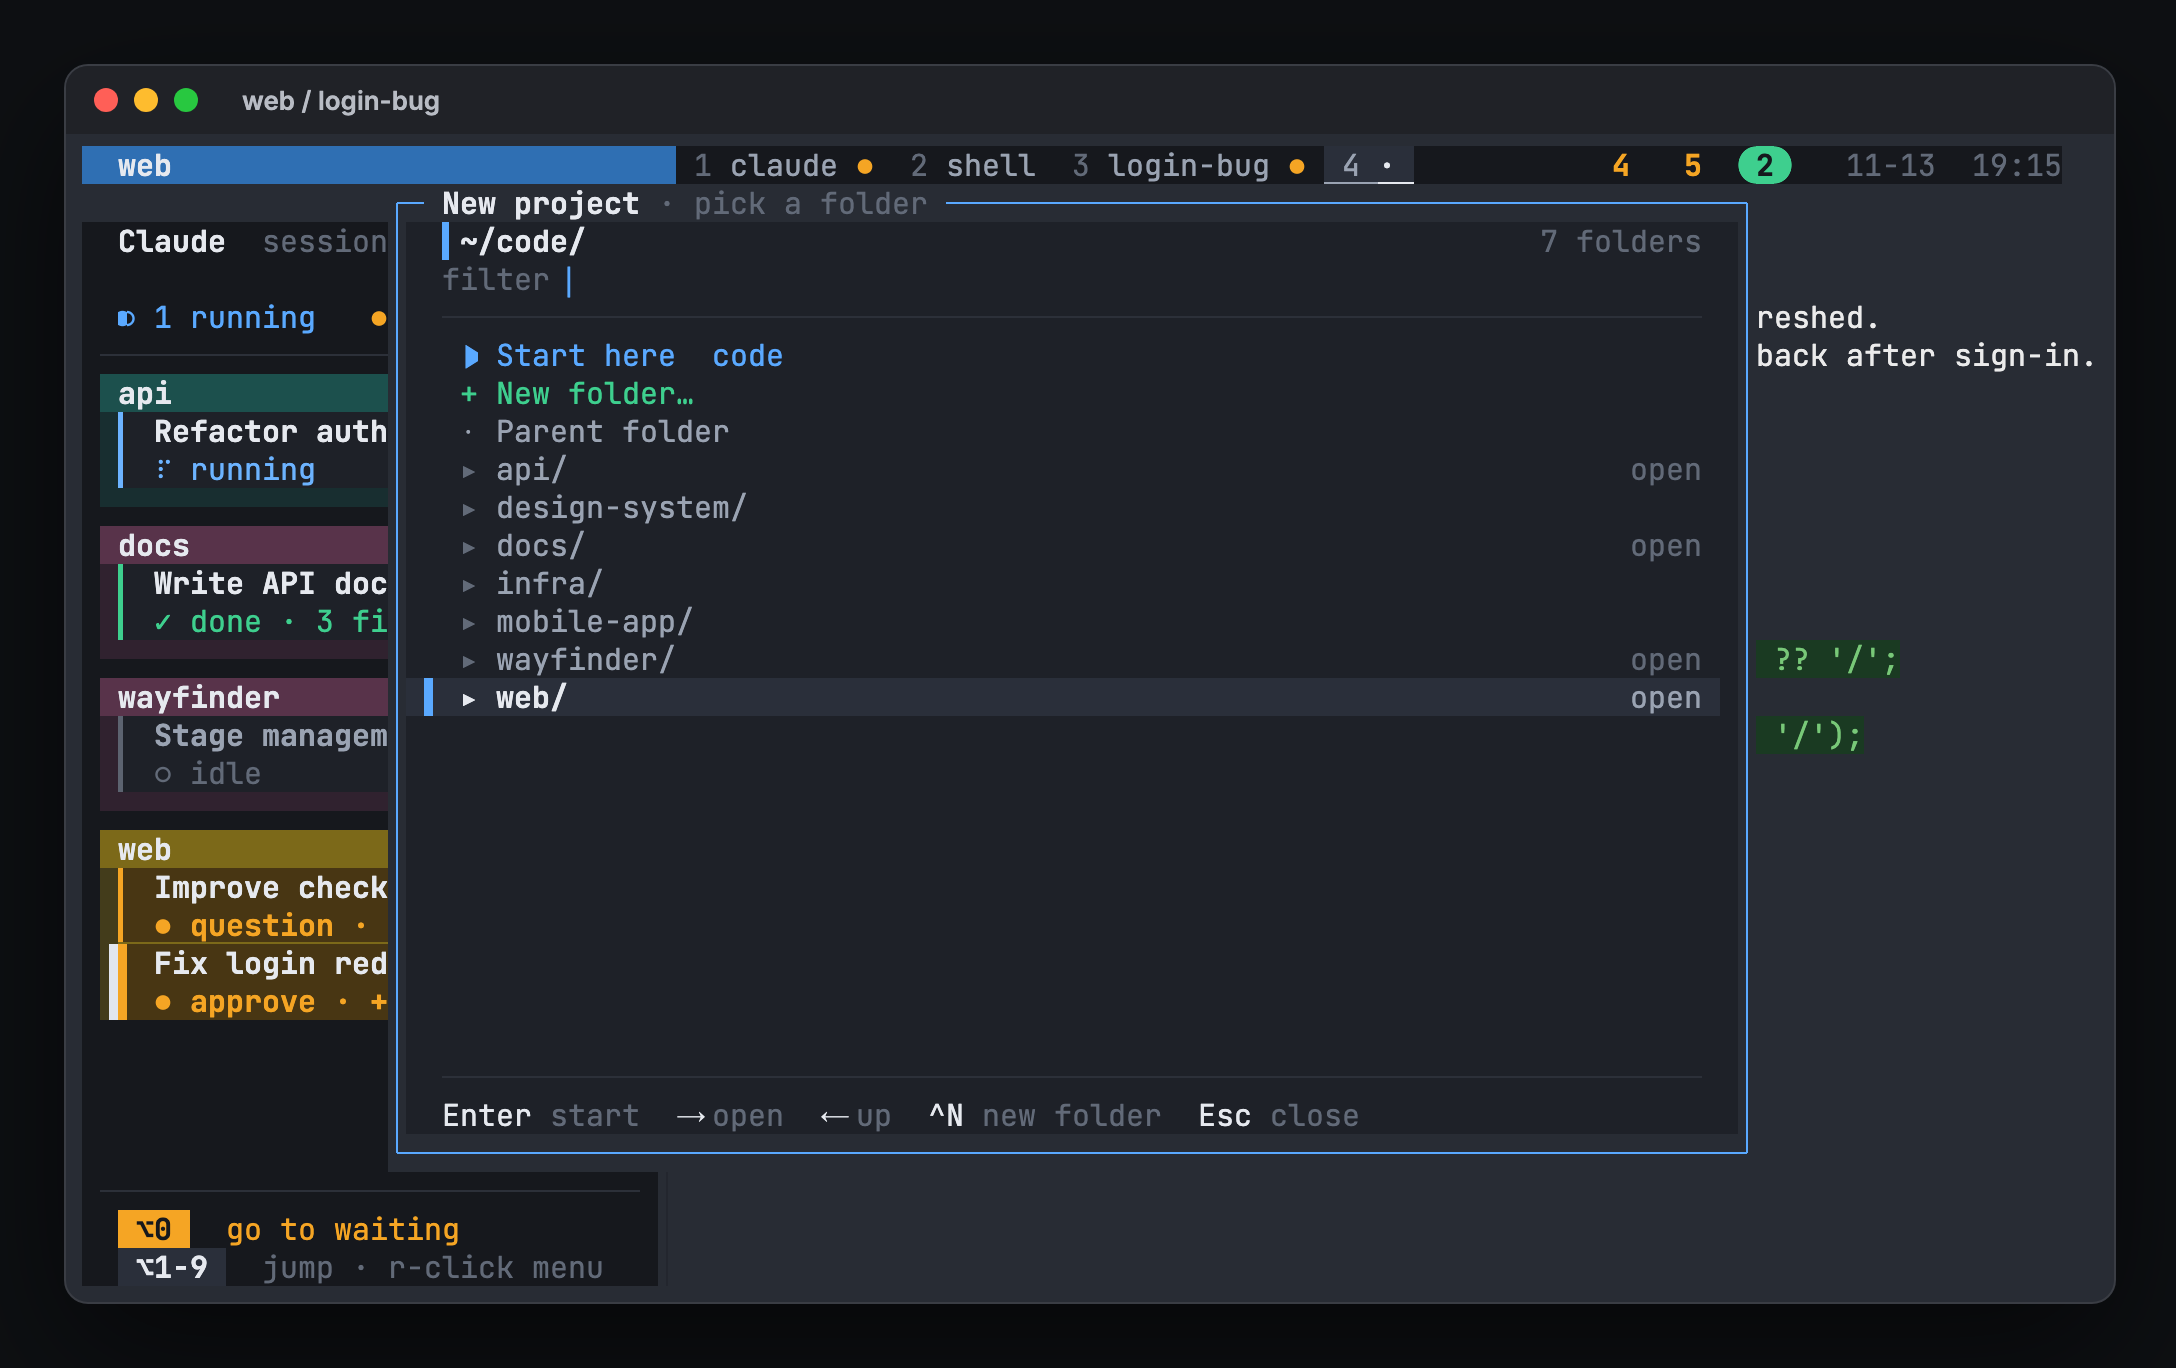
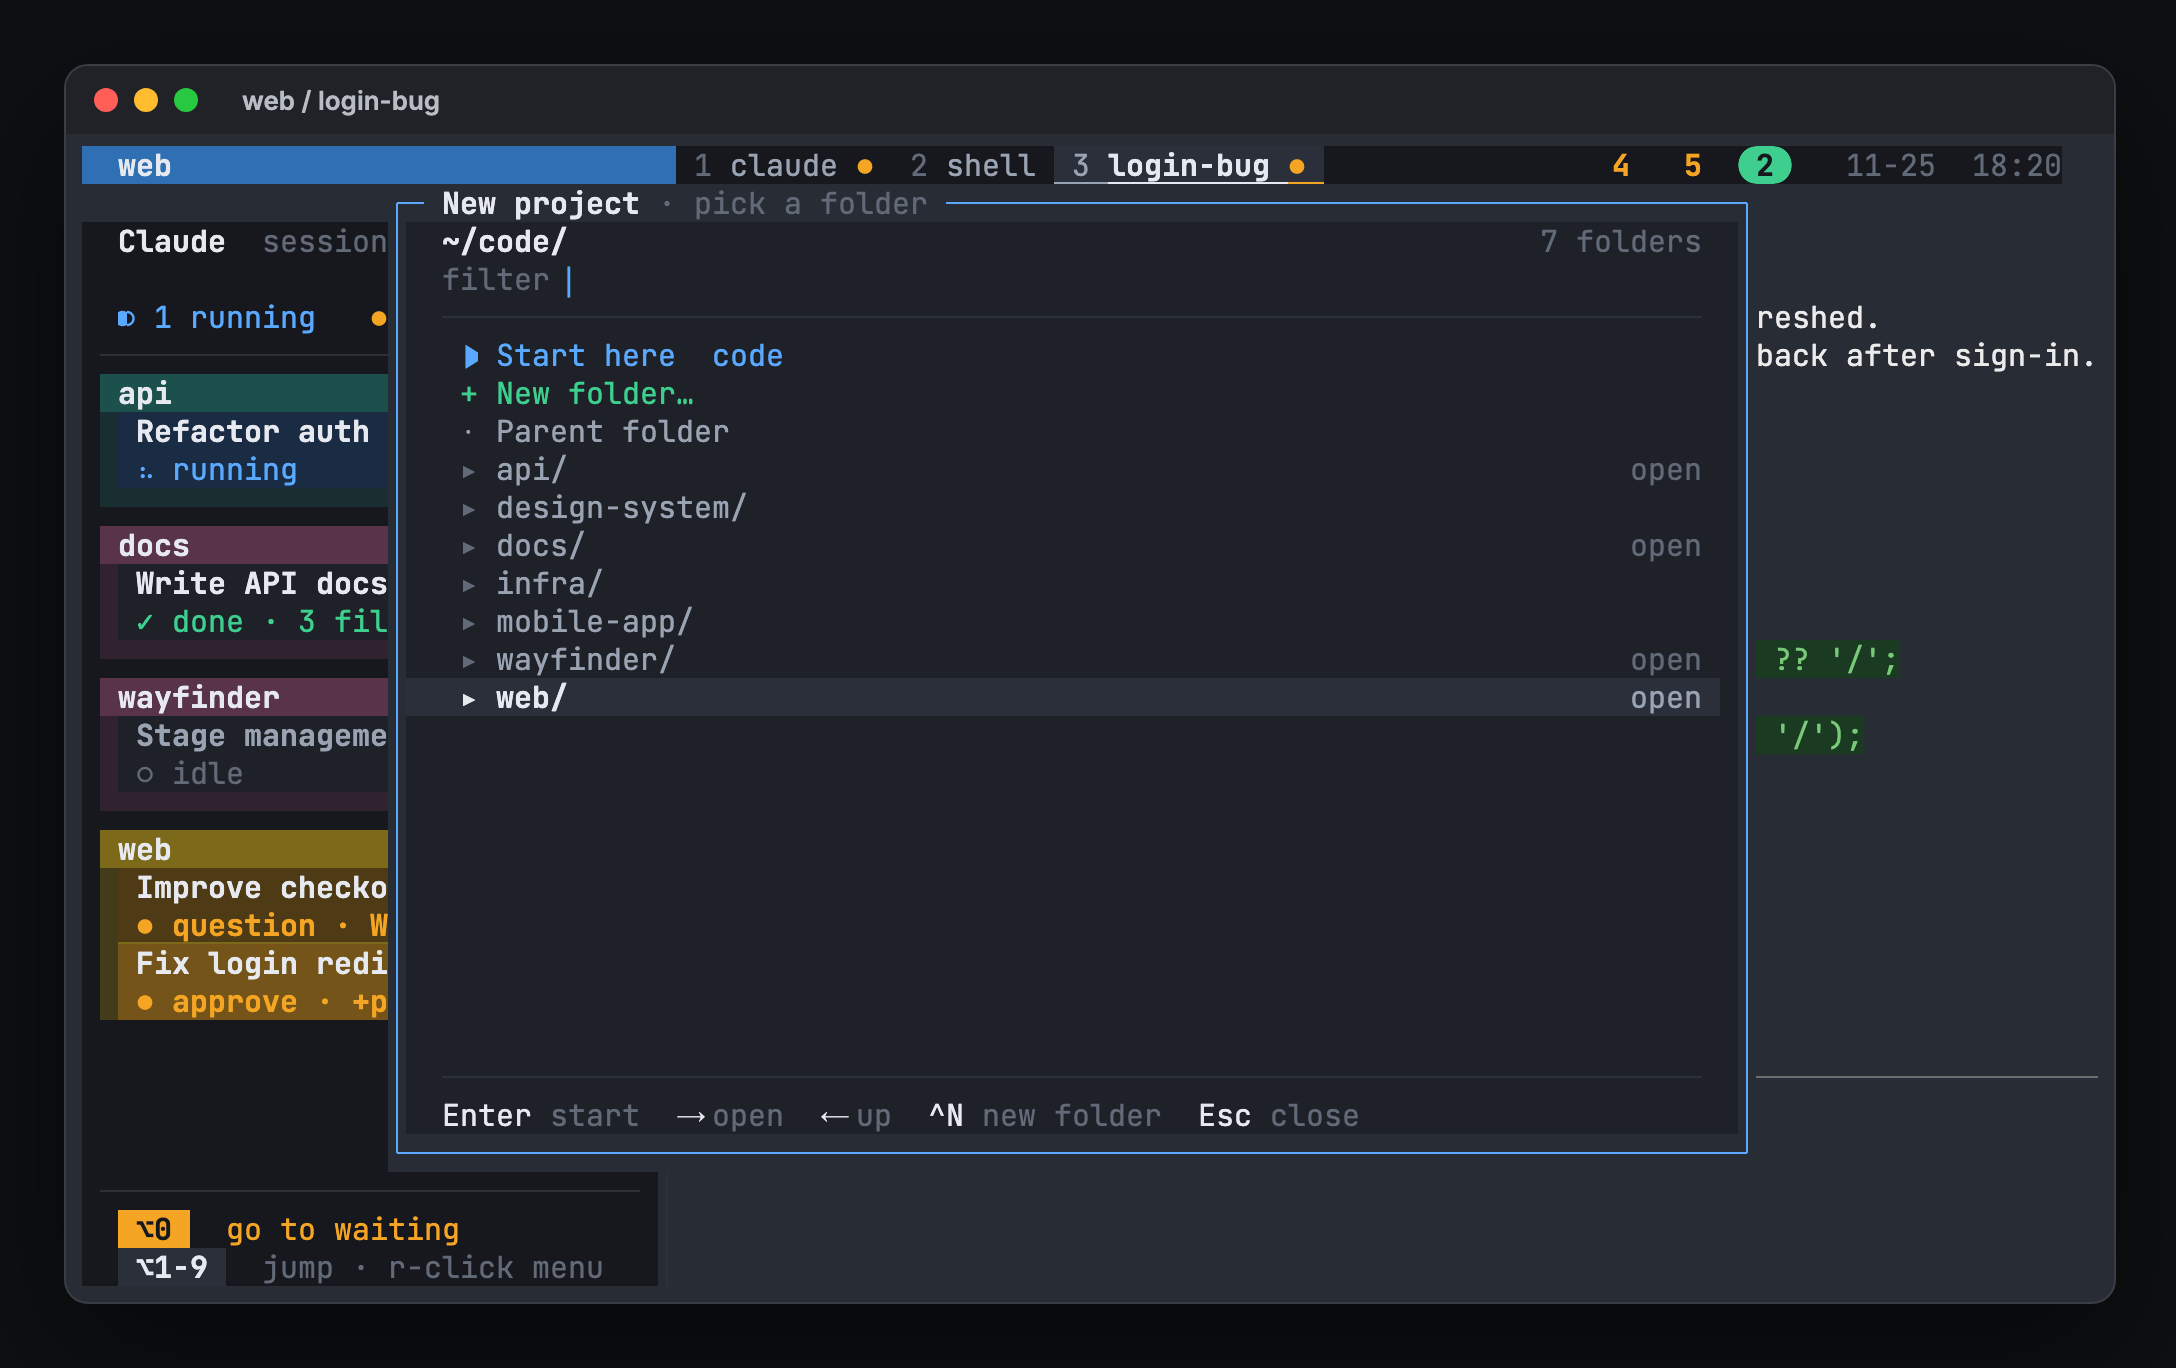
Docs: what is new, API credits at the usage limit, new pictures; popups without a left bar; the SDK status line as plain text
Claude-Session: https://claude.ai/code/session_01PQGNXR7xQauyYbhpc3gRFo

diff --git a/docs/guide.en.html b/docs/guide.en.html
@@ -704,6 +704,7 @@ hivemux connect me@work-mac.local</pre></div>
     <div class="card"><h3>Add one</h3><p>Right-click the sidebar → <b>Switch account…</b> → <b>Add account…</b>, give it a name and log in in the browser once.</p></div>
     <div class="card"><h3>Switch</h3><p>Pick it in the same popup. It first says how many Claudes, in which projects, will restart, and asks. They restart on the new account in the same conversation: at once when at rest or stopped by the limit, after the turn when working.</p></div>
     <div class="card"><h3>One project</h3><p>Right-click a project's name → <b>Account for this project…</b> gives that project its own account; "Same as all projects" undoes it.</p></div>
+    <div class="card"><h3>At the limit, go on with an API key</h3><p>In the same popup, <b>Add API key account…</b> adds an Anthropic API key and <b>At a usage limit, go on with</b> picks it (the first one added is picked). When a subscription hits its usage limit, its Claudes go on with the key in the same pane, and the one the limit cut off is asked to go on. So do those of a subscription that cannot be used (a payment past due), for a day or until you choose that account again. When the limit resets they come back once off the screen and not working. API use is billed per request. The same row in <b>Account for this project…</b> sets one project. It goes on through the <b>Agent SDK</b> by default: the <a href="https://support.claude.com/en/articles/17154008-monthly-api-credits-for-max-ultra-and-team-plans">monthly API credits</a> of the Max, Ultra and Team plans cover the Agent SDK and not Claude Code. hivemux's own terminal for Claude, made with the SDK, works in the same pane with the same folder, tools and settings; the conversation passes as documents, and Claude Code reads what was done when the subscription is back.</p></div>
     <div class="card"><h3>Where you are</h3><p>The status line shows <code>◉ work</code> when the account in use is not the default one.</p></div>
     <div class="card"><h3>What is shared</h3><p>An added account is its own Claude config folder (<code>~/.local/share/hivemux/accounts/&lt;name&gt;</code>, <code>CLAUDE_CONFIG_DIR</code>): only the login is its own. Settings, hooks, conversations, memory, skills, plugins and the running sessions are shared with <code>~/.claude</code>.</p></div>
     <div class="card"><h3>Pages</h3><p>Right-click → <b>Pages…</b> lists the projects' HTML files and the artifacts your Claudes published. With Settings → <b>Pages to show</b> on <b>HTML files</b>, pages are made as files and published as artifacts only when you want one shared; <b>Copy request for opinions</b> brings what was said on the shared copy back to the file. An artifact opens only for the account that published it. <b>View copy</b> opens the copy kept here; <b>Copy republish request</b> asks a Claude on the account in use to publish it again.</p></div>
@@ -711,6 +712,9 @@ hivemux connect me@work-mac.local</pre></div>
   <div class="code"><button class="copy" type="button">Copy</button><pre>hivemux account add work        <span class="cmt"># log in once (browser)</span>
 hivemux account use work        <span class="cmt"># every project</span>
 hivemux account use work -s api <span class="cmt"># one project (all: as every project)</span>
+hivemux account add-key api     <span class="cmt"># an API key account (asks for the key)</span>
+hivemux account fallback api    <span class="cmt"># go on with it at a usage limit (off: stop)</span>
+hivemux account fallback api -s web <span class="cmt"># one project (off, all: as every project)</span>
 hivemux account list            <span class="cmt"># accounts, emails, projects</span></pre></div>
 </section>
 

diff --git a/docs/preview/fake-sdk/claude_agent_sdk.py b/docs/preview/fake-sdk/claude_agent_sdk.py
@@ -1,0 +1,93 @@
+"""A stand-in for claude-agent-sdk that answers from a script, for the docs' pictures (no API call, no key).
+문서 그림용으로 각본대로 답하는 claude-agent-sdk 대역 (API 호출도 키도 없음)."""
+import asyncio, os
+from dataclasses import dataclass, field
+from typing import Any
+
+
+@dataclass
+class TextBlock:
+    text: str
+
+
+@dataclass
+class ToolUseBlock:
+    name: str
+    input: dict
+    id: str = "t"
+
+
+@dataclass
+class ToolResultBlock:
+    content: Any
+    is_error: bool = False
+
+
+@dataclass
+class AssistantMessage:
+    content: list
+    usage: dict = field(default_factory=lambda: {"input_tokens": 61000})
+    parent_tool_use_id: Any = None
+
+
+@dataclass
+class UserMessage:
+    content: list
+
+
+@dataclass
+class ResultMessage:
+    total_cost_usd: float
+    session_id: str = "demo"
+
+
+class ClaudeAgentOptions:
+    def __init__(self, **kw):
+        self.kw = kw
+
+
+KO = os.environ.get("HIVEMUX_LANG") == "ko"
+S = (lambda ko, en: ko) if KO else (lambda ko, en: en)
+F = "src/lib/auth/session.ts"
+SCRIPT = [
+    [AssistantMessage([TextBlock(S("한도로 끊긴 곳부터 이어 갑니다. 세션 갱신을 auth 모듈로 옮기던 중이었고, 남은 일은 테스트입니다.",
+                                   "Going on from the limit: the session refresh had moved into the auth module, the tests are left."))]),
+     AssistantMessage([ToolUseBlock("Read", {"file_path": F})]), UserMessage([ToolResultBlock("export async function refresh(token: string) {")]),
+     AssistantMessage([ToolUseBlock("Edit", {"file_path": F})]), UserMessage([ToolResultBlock(S("파일을 고쳤습니다.", "The file has been updated."))]),
+     AssistantMessage([ToolUseBlock("Bash", {"command": "pnpm vitest run auth"})]), UserMessage([ToolResultBlock("Test Files  3 passed (3)")]),
+     AssistantMessage([TextBlock(S("갱신 경로를 하나로 합쳤고 auth 테스트 3개 파일이 모두 통과합니다.\n  다음은 로그인 화면의 만료 처리입니다.",
+                                   "One refresh path now, and all three auth test files pass.\n  Next is the expiry on the login screen."))]),
+     ResultMessage(0.184)],
+    [AssistantMessage([ToolUseBlock("Grep", {"pattern": "expiresAt"})], {"input_tokens": 64000}), UserMessage([ToolResultBlock("src/routes/login/+page.server.ts:31")]),
+     AssistantMessage([ToolUseBlock("Read", {"file_path": "src/routes/login/+page.server.ts"})], {"input_tokens": 66000})],
+]
+
+
+class ClaudeSDKClient:
+    def __init__(self, options=None):
+        self.turns, self.q = 0, asyncio.Queue()
+
+    async def __aenter__(self):
+        return self
+
+    async def __aexit__(self, *a):
+        return False
+
+    async def get_server_info(self):
+        return {"commands": []}
+
+    async def query(self, prompt):
+        for m in SCRIPT[min(self.turns, len(SCRIPT) - 1)]:
+            await self.q.put(m)
+        self.turns += 1
+
+    async def receive_messages(self):
+        while True:
+            await asyncio.sleep(.25)
+            yield await self.q.get()
+
+    async def interrupt(self):
+        pass
+
+    async def set_model(self, m):
+        pass

diff --git a/README.md b/README.md
@@ -9,13 +9,39 @@ in every tmux session: what it is working on, whether it is running, waiting for
 your approval, or done, and for how long. Press `Option+3` to jump to the third
 one, or `Option+0` to jump to whichever has waited longest. Close the terminal or
 reboot and everything comes back, with each Claude resumed in its pane. When a
-Claude account hits its usage limit, switch every project (or just one) to
-another account and each Claude carries on in the same conversation. It runs on
-macOS and Linux (on Linux, `Option` is `Alt`).
+Claude account hits its usage limit, the work goes on: switch to another account in the
+same conversation, or let hivemux go on with an API key by itself and come back
+when the limit resets. It runs on macOS and Linux (on Linux, `Option` is `Alt`).
 
 <p align="center">
   <img src="docs/preview-en.png" alt="hivemux sidebar preview" width="880">
 </p>
+
+## What's new
+
+<p align="center">
+  <img src="docs/img/api-en.png" alt="A Claude at its usage limit going on through the Agent SDK in the same pane: it picks up the work that was cut off, edits a file and runs the tests; the status line shows the model, context size and cost, and the sidebar shows it as running" width="880">
+</p>
+
+- **At the usage limit, go on with the API.** Add an API key once; when a
+  subscription hits its limit, its Claudes go on in the same pane with the same
+  folder, tools, settings and hooks, and turn back into Claude Code when the limit
+  resets. It runs on the Agent SDK, so the monthly API credits of the Max, Ultra
+  and Team plans ([$100, $200, up to $500](https://support.claude.com/en/articles/17154008-monthly-api-credits-for-max-ultra-and-team-plans))
+  work for it. They do not cover Claude Code itself. (0.1.78,
+  [how](#more-than-one-claude-account))
+- **Team diets that hold.** A role past its line starts fresh from short notes,
+  without the tools it does not use: 33K to 46K tokens at the start instead of
+  52K, and long days no longer fill up with reading. (0.1.80, [Teams](#teams))
+- **Pages as files.** Mockups and reports as one HTML file in the project,
+  published only when you want them shared; opinions come back into the file.
+  (0.1.80, [Pages](#pages))
+- **A lighter sidebar.** With 60 Claudes, from 35% of a core to 6%. (0.1.79)
+- **Dev servers on your phone.** `Option+W`, then `p`: the address and a QR code.
+  (0.1.75)
+
+Everything, by version: [CHANGELOG](CHANGELOG.md) or
+[hivemux.dev/new](https://hivemux.dev/new/).
 
 ## Features
 
@@ -44,8 +70,9 @@ macOS and Linux (on Linux, `Option` is `Alt`).
 - **More than one Claude account.** Hit a usage limit? Log in to another
   account once and switch to it, for every project or for one; each Claude
   restarts on it in the same conversation, and the status line shows
-  `◉ <account>`. A list of every artifact your Claudes published says which
-  account it belongs to. See [More than one Claude account](#more-than-one-claude-account).
+  `◉ <account>`. Or have them go on with an API key by themselves until the limit
+  resets. A list of every artifact your Claudes published says which account it
+  belongs to. See [More than one Claude account](#more-than-one-claude-account).
 - **Why it waits, and answer from the office.** A waiting card says what it
   waits for: an approval (with Claude's own one-line description of the
   command, or the file), a plan, a question, or an error; a finished one says
@@ -328,11 +355,14 @@ to it; every Claude carries on in the same conversation.
   (`hivemux account fallback api|off|all -s <project>`), so only the projects
   you pick go on with the key.
 
-  It goes on through the **Agent SDK** by default: some API credits (promotion
-  credits) are for the Agent SDK and not for Claude Code, which stops at
-  "Credit balance too low" on them. `bin/hivemux-sdk` is a small Claude Code
-  made with the SDK: it runs in the pane with the same folder, tools,
-  settings, CLAUDE.md, hooks and team role prompt. The conversation passes as
+  It goes on through the **Agent SDK** by default. Max, Ultra and Team plans
+  include [monthly API credits](https://support.claude.com/en/articles/17154008-monthly-api-credits-for-max-ultra-and-team-plans)
+  ($100, $200, up to $500 a team; claim them in claude.ai → Settings → Billing,
+  which links a Console organization). They cover the Agent SDK with a key of that
+  organization and not Claude Code, which stops at "Credit balance too low" on
+  them. `bin/hivemux-sdk` is hivemux's own terminal for Claude, made with the SDK
+  and laid out like the one you know: it runs in the pane with the same folder,
+  tools, settings, CLAUDE.md, hooks and team role prompt. The conversation passes as
   documents, as a diet does: it starts from a handoff written from the end of
   the Claude Code conversation (`~/.local/share/hivemux/handoff/<id>.in.md`:
   the last requests and answers, files changed, the role's notes, the path of

diff --git a/CHANGELOG.md b/CHANGELOG.md
@@ -2,6 +2,14 @@
 
 ## Unreleased
 
+- The settings, open path, new project, connect and sidebar width popups have no bar on the left of the
+  selected row: it is told by its tint, as in the account and port lists.
+- Agent SDK: the status line under the prompt is plain text below the rule, as in Claude Code; it was drawn as
+  a filled gray bar.
+- READMEs: what is new, and how the monthly API credits of Max, Ultra and Team plans work with going on at the
+  usage limit (the Korean one had nothing on API keys). New pictures of everything, with the sidebar as it is
+  now, and `docs/preview/api.sh` for the API, account and phone ones.
+
 ## 0.1.80 — 2026-11-25
 
 - Diets, when they should: a role whose last answer asked something was not put on a diet until you had
@@ -77,7 +85,7 @@
   tick. Ctrl+V pastes the clipboard's image as `[Image #n]` and sends it with the message, as in Claude Code;
   an image file's path (dragged into the terminal) is sent as the image too. A path that starts with a slash
   is no longer taken for a command. Its session carries the name others message it by (a team role's
-  `<project>-<role>`, else the conversation's): a team gone to the API took made-up names ("ohmyhome-d1") and
+  `<project>-<role>`, else the conversation's): a team gone to the API took made-up names ("myapp-d1") and
   lost each other. It diets as a team role does, without typing into a prompt: through the API each turn sends
   the whole conversation again and is paid for. Past the line, once the answer has been seen, it brings the
   notes up to date and starts a fresh SDK conversation from them. A team role keeps its team's line, notes and
